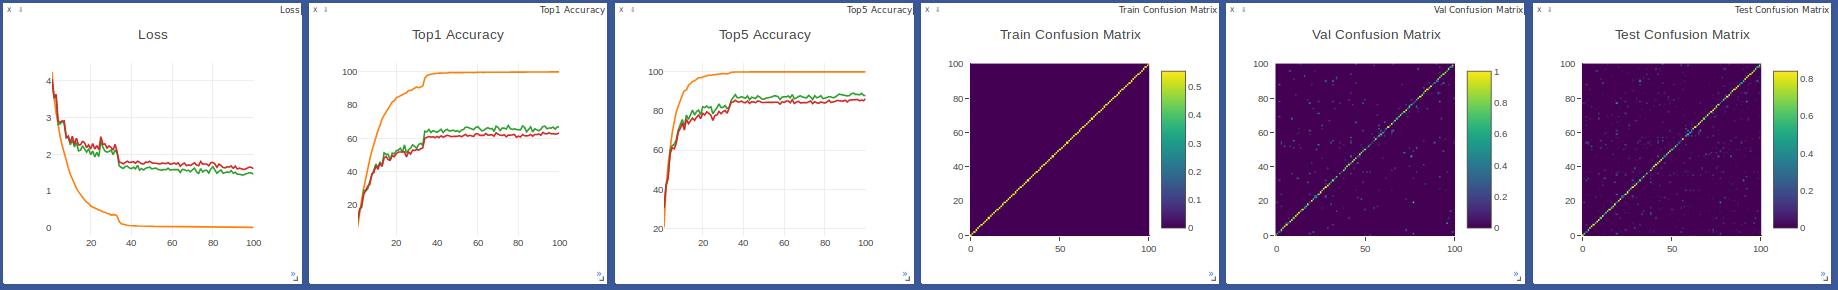
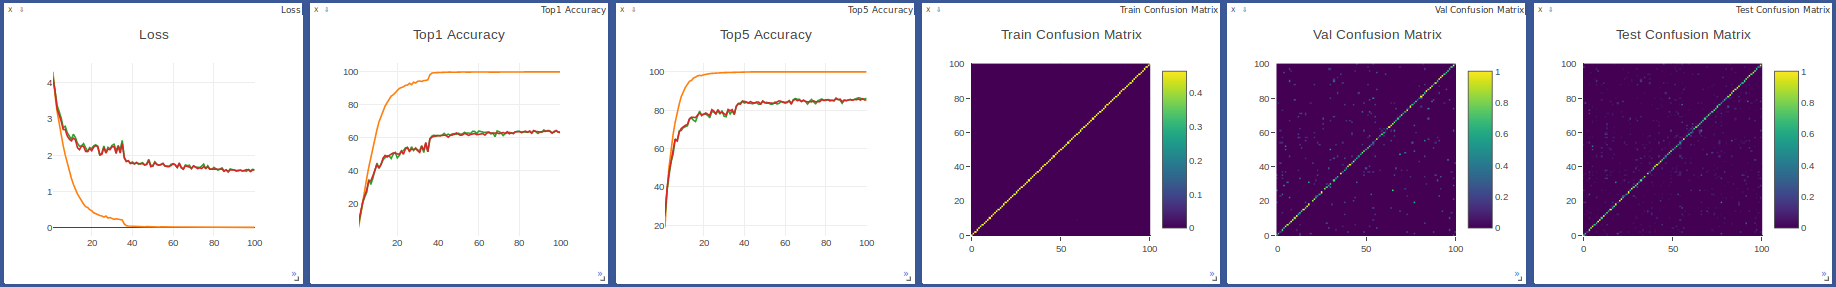
add results

diff --git a/README.md b/README.md
@@ -124,7 +124,7 @@ Here is the model parameter, accuracy and training time details:
     <tr>
       <td align="center">R2Plus1D</td>
       <td align="center">33,220,990</td>
-      <td align="center">/</td>
+      <td align="center">64.47%</td>
       <td align="center">10.8h</td>
       <td align="center">33,195,340</td>
       <td align="center">27.12%</td>
@@ -133,7 +133,7 @@ Here is the model parameter, accuracy and training time details:
     <tr>
       <td align="center">STTS</td>
       <td align="center">33,208,373</td>
-      <td align="center"><b>/</b></td>
+      <td align="center">62.15%</td>
       <td align="center">13.8h</td>
       <td align="center">33,182,723</td>
       <td align="center">29.02%</td>
@@ -142,7 +142,7 @@ Here is the model parameter, accuracy and training time details:
     <tr>
       <td align="center">STTS-A</td>
       <td align="center">37,344,339</td>
-      <td align="center">/</td>
+      <td align="center"><b>65.13%</b></td>
       <td align="center">16.9h</td>
       <td align="center">37,318,689</td>
       <td align="center">29.48%</td>
